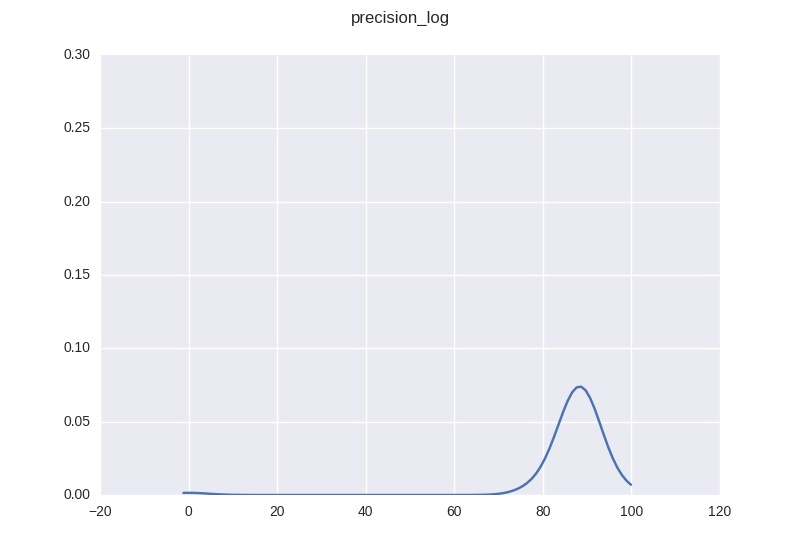
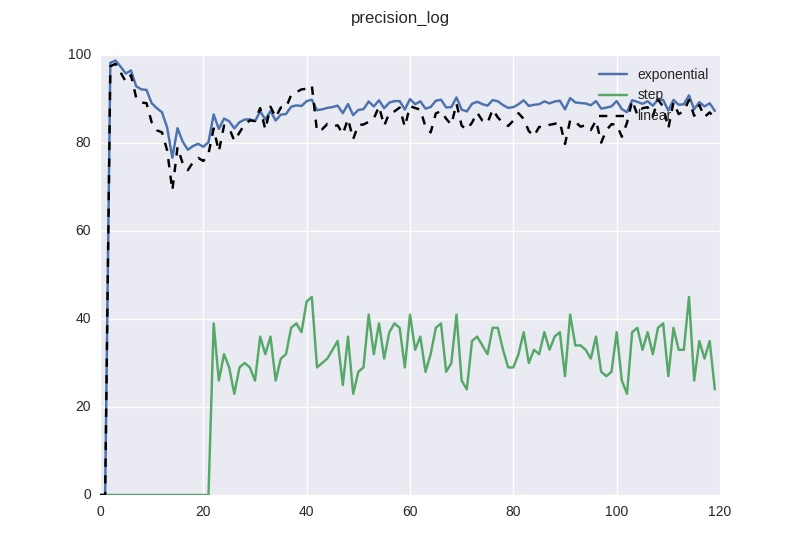
added plot

diff --git a/src/cost/cost.py b/src/cost/cost.py
@@ -6,6 +6,8 @@ from numpy.random import randn
 from cost_function import cost_function
 import seaborn as sns 
 import matplotlib.pyplot as P
+import matplotlib.patches as mpatches
+
 
 def check(x):
 	if x == 0:
@@ -127,14 +129,19 @@ def cost_function_graphs():
 				costs = []
 				costs = [cost_function_i.get_cost(trail_num,metric) for trail_num in trail_nums]
 				costs = np.array(costs)
+				#costs = [cost/100 for cost in costs]
 				alpha_values = np.array(alpha_values)
-				#print alpha_values
+				print len(alpha_values), costs[:,0].size
 				
 				P.figure()
+				f, axf = P.subplots(squeeze=False)
 				P.suptitle(check(metric) + "_" + LT(loss_num))
-				sns.kdeplot(costs)
-				P.xlim([-20,120])
-				P.ylim([0,.3])
+				P.plot(costs[:,0], label='exponential')
+				P.plot(costs[:,1],label='step')
+				P.plot(costs[:,2],label='linear',linestyle='--',color='black')
+				P.legend()
+				#P.xlim([0,100])
+				#P.ylim([0, .4])
 				outp = "pics/" + str(check(metric)) + '__' + LT(loss_num) + ".jpg"
 				P.savefig(outp)
 				P.close(outp)

diff --git a/src/results/results.py b/src/results/results.py
@@ -131,7 +131,7 @@ for loss_type in loss_types:
 					#cost_trail = cost_function_i.get_cost(y)
 					sns.kdeplot(cu,ax=axf[y%num][y/num]) # throwing an error at 12?
 					axf[y%num][y/num].axvline(now_mean[y], ls="--", linewidth=1.5)
-					axf[y%num][y/num].axvline(cv[x], ls="--", linewidth=2,color="red")
+					axf[y%num][y/num].axvline(cv[x], ls="--", linewidth=25,color="red")
 					axf[y%num][y/num].axvline(now_precent[y][0], ls="-", linewidth=1.25,color="black")
 					axf[y%num][y/num].axvline(now_precent[y][1], ls="-", linewidth=1.25,color="black")
 					axf[y%num][y/num].set_title("C="+"%3.4g" % (float(Alpha_vals[y])**-1))

diff --git a/src/cost/cost_function.py b/src/cost/cost_function.py
@@ -32,7 +32,7 @@ class cost_function:  # test cost for only recall now
         [self.calculate_cost(value) for value in self.values]
 
     def get_cost(self,trail_num,type=1):
-        return self.cost[4*trail_num - type][0]  # returns exponential and recall
+        return self.cost[4*trail_num - type]  # returns exponential and recall
 
     def calculate_cost(self, value):
         # print "ZIP",     zip(value, self.min_max, self.cost)

diff --git a/src/results/irony.py b/src/results/irony.py
@@ -32,7 +32,7 @@ def get_conservatives_liberal(type_vote):
 	return data
 	'''
 	#print 'Here in get_conservatives_liberal'
-	db_path = '../../data/irony/ironate.db'
+	db_path = '../../	data/irony/ironate.db'
 	conn = sqlite3.connect(db_path)
 	cursor = conn.cursor()
 	labeled_comment_ids = get_labeled_thrice_comments(cursor)
